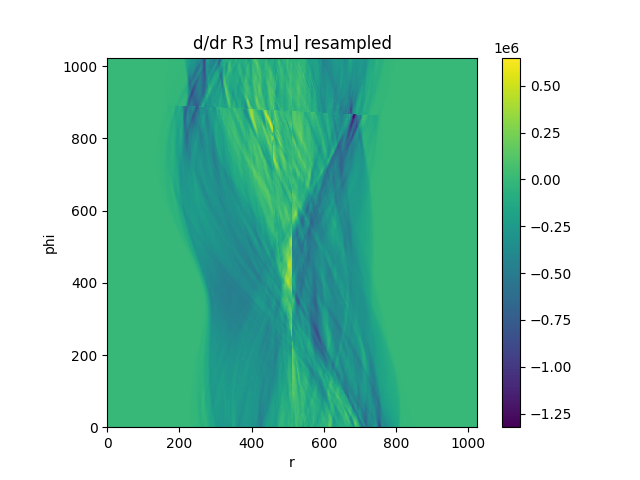
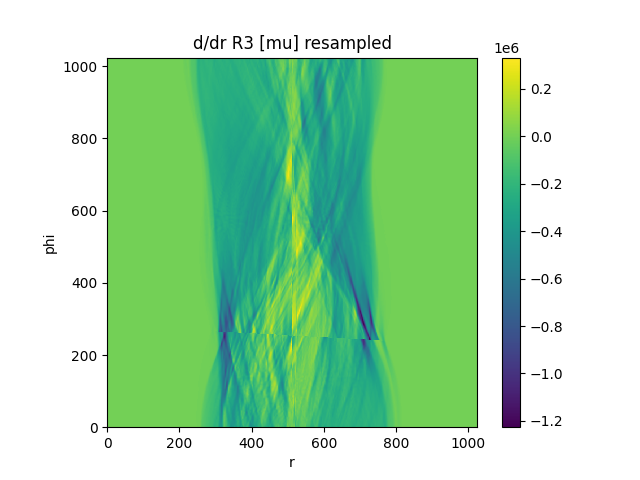
new set of figures, 4x faster!

diff --git a/register.py b/register.py
@@ -169,20 +169,20 @@ def register(path: str | None, *, cache_directory: str, load_cached: bool = True
                                                   transformation=transformation_ground_truth.to(device=device),
                                                   scene_geometry=scene_geometry, fixed_image_grid=sinogram2d_grid,
                                                   sinogram3d_range=sinogram3d_range, plot=True)
-    print(
-        "{:.4e}".format(zncc.item()# evaluate_direct(fixed_image, vol_data, transformation=transformation_ground_truth,
-                        #                 scene_geometry=scene_geometry, fixed_image_grid=sinogram2d_grid, voxel_spacing=voxel_spacing,
-                        #                 plot=True)
-                        ))
+    print("{:.4e}".format(zncc.item()
+                          # evaluate_direct(fixed_image, vol_data, transformation=transformation_ground_truth,
+                          #                 scene_geometry=scene_geometry, fixed_image_grid=sinogram2d_grid, voxel_spacing=voxel_spacing,
+                          #                 plot=True)
+                          ))
 
-    plt.show()
-    low = torch.max(fixed_image.min(), resampled.min())
-    high = torch.min(fixed_image.max(), resampled.max())
-    overlaid = torch.stack((((fixed_image - low) / (high - low)).cpu(), ((resampled - low) / (high - low)).cpu(),
-                            torch.zeros_like(fixed_image, device='cpu')), dim=-1)
-    plt.imshow(overlaid)
+    # plt.show()
+    # low = torch.max(fixed_image.min(), resampled.min())
+    # high = torch.min(fixed_image.max(), resampled.max())
+    # overlaid = torch.stack((((fixed_image - low) / (high - low)).cpu(), ((resampled - low) / (high - low)).cpu(),
+    #                         torch.zeros_like(fixed_image, device='cpu')), dim=-1)
+    # plt.imshow(overlaid)
 
-    if False:
+    if True:
         n = 100
         angle0s = torch.linspace(transformation_ground_truth.rotation[0] - torch.pi,
                                  transformation_ground_truth.rotation[0] + torch.pi, n)
@@ -196,7 +196,7 @@ def register(path: str | None, *, cache_directory: str, load_cached: bool = True
                 torch.tensor([angle0s[i0], angle1s[i1], transformation_ground_truth.rotation[2]], device=device),
                 transformation_ground_truth.translation), scene_geometry=scene_geometry,
                                                           fixed_image_grid=sinogram2d_grid,
-                                                          sinogram3d_range=sinogram3d_range)
+                                                          sinogram3d_range=sinogram3d_range)[0]
         _, axes = plt.subplots()
         mesh = axes.pcolormesh(nznccs)
         axes.set_title("landscape over two angle components")
@@ -205,15 +205,16 @@ def register(path: str | None, *, cache_directory: str, load_cached: bool = True
         axes.axis('square')
         plt.colorbar(mesh)
 
-    if False:
+    if True:
         n = 1000
         nznccs = torch.zeros(n)
         distances = torch.zeros(n)
         for i in tqdm(range(n)):
             transformation = Transformation.random(device=device)
             distances[i] = transformation_ground_truth.distance(transformation)
-            nznccs[i] = -evaluate(fixed_image, sinogram3d, transformation=transformation, scene_geometry=scene_geometry,
-                                  fixed_image_grid=sinogram2d_grid, sinogram3d_range=sinogram3d_range)
+            nznccs[i] = -objective_function.evaluate(fixed_image, sinogram3d, transformation=transformation,
+                                                     scene_geometry=scene_geometry, fixed_image_grid=sinogram2d_grid,
+                                                     sinogram3d_range=sinogram3d_range)[0]
 
         _, axes = plt.subplots()
         axes.scatter(distances, nznccs)
@@ -221,12 +222,12 @@ def register(path: str | None, *, cache_directory: str, load_cached: bool = True
         axes.set_ylabel("-ZNCC")
         axes.set_title("Relationship between similarity measure and distance in SE3")
 
-    if False:
+    if True:
         def objective(params: torch.Tensor) -> torch.Tensor:
             return -objective_function.evaluate(fixed_image, sinogram3d,
                                                 transformation=Transformation(params[0:3], params[3:6]).to(
                                                     device=device), scene_geometry=scene_geometry,
-                                                fixed_image_grid=sinogram2d_grid, sinogram3d_range=sinogram3d_range)
+                                                fixed_image_grid=sinogram2d_grid, sinogram3d_range=sinogram3d_range)[0]
 
         print("Optimising...")
         param_history = []

diff --git a/registration/lib/structs.py b/registration/lib/structs.py
@@ -83,7 +83,7 @@ class Transformation(NamedTuple):
     @classmethod
     def random(cls, *, device=torch.device('cpu')) -> 'Transformation':
         return Transformation(torch.pi * (-1. + 2. * torch.rand(3, device=device)),
-                              75. * (-1. + 2. * torch.rand(3, device=device)) + Transformation.zero(
+                              25. * (-1. + 2. * torch.rand(3, device=device)) + Transformation.zero(
                                   device=device).translation)
 
 

diff --git a/README.md b/README.md
@@ -69,7 +69,7 @@ DRR generated at the converged transformation:
 
 ![converged_drr.png](figures/converged_drr.png)
 
-Optimisation completed in 5.942 seconds, performing a total of 779 function evaluations.
+Optimisation completed in 1.429 seconds, performing a total of 564 function evaluations.
 
 Here is a plot of the -ZNCC similarity between the fixed image and the resampled moving image against the distance in SE3
 between the transformation and the ground truth transformation for 1000 random transformations:
